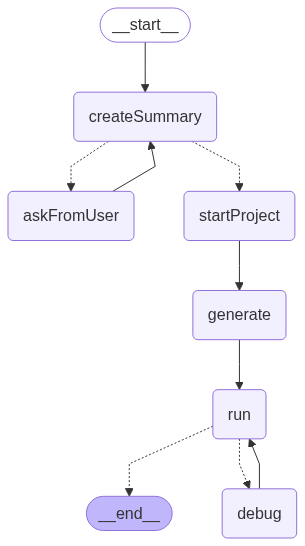
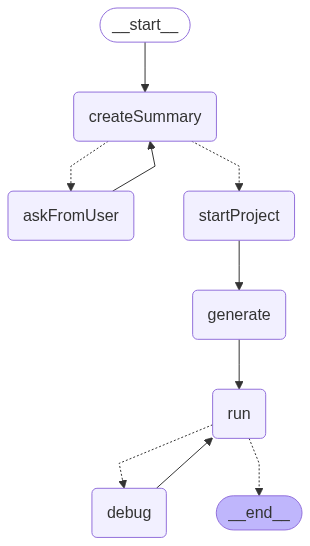
let's go

diff --git a/main.py b/main.py
@@ -137,9 +137,20 @@ def run(state: OverallState) -> Command[Literal["debug"]]:
 
     # read files and copy into code
     file_agent = FileAgent(project_id=project_id, bot_username=telegram_bot_username)
-    code = {}
+    code = ""
     for filename in file_agent.get_project_structure():
-        code[filename] = file_agent.read_file(filename)
+        code += f"{filename}: {file_agent.read_file(filename)} \n\n"
+
+    print(f"initial code {code}")
+    i = 0
+    iterations = len(code) + code.count("{") + code.count("}")
+    while i < iterations:
+        if "{" == code[i]: 
+            code = code[:i+1] + "{" + code[i+1:]; i += 1
+        elif "}" == code[i]:
+            code = code[:i+1] + "}" + code[i+1:]; i += 1
+        i += 1
+    print(f"edited code {code}")
 
     # Install deps
     print("Creating virtual environment")
@@ -175,8 +186,10 @@ def run(state: OverallState) -> Command[Literal["debug"]]:
             "suggestion_summary": result.get("suggestion_summary"),
             "is_docker_created": True,
         },
-        goto="debug" if result.get("has_errors") else END,
-    )
+        goto="debug"
+    ) if result.get("has_errors") else Command(update={
+            "suggestion_summary": result.get("suggestion_summary"),
+            "is_docker_created": True,})
 
 
 
@@ -188,12 +201,21 @@ def debug(state: OverallState):
     suggestion_summary = state.suggestion_summary
     user_suggestion = state.user_suggestion
 
-    # read files and copy into code dictionary
+    # read files and copy into code
     file_agent = FileAgent(project_id=project_id, bot_username=telegram_bot_username)
-    code = {}
+    code = ""
     for filename in file_agent.get_project_structure():
-        code[filename] = file_agent.read_file(filename)
-
+        code += f"{filename}: {file_agent.read_file(filename)} \n\n"
+    print(f"initial code {code}")
+    i = 0
+    iterations = len(code) + code.count("{") + code.count("}")
+    while i < iterations:
+        if "{" == code[i]: 
+            code = code[:i+1] + "{" + code[i+1:]; i += 1
+        elif "}" == code[i]:
+            code = code[:i+1] + "}" + code[i+1:]; i += 1
+        i += 1
+    print(f"edited code {code}")
     user_suggestion = input("Please provide your suggestion: ")
 
     prompt = ChatPromptTemplate(
@@ -213,12 +235,10 @@ def debug(state: OverallState):
 
     return Command(
         update={
-            "questions": result.get("questions"),
-            "summary": result.get("summary"),
-            "TZ": result.get("TZ"),
+            "user_suggestion": user_suggestion,
+            "suggestion_summary": suggestion_summary,
             "is_docker_created": True,
-        },
-        goto="run",
+        }
     )
 
 

diff --git a/prompts.py b/prompts.py
@@ -97,7 +97,7 @@ You are an expert *Telegram Bot Debugging Assistant* specializing in analyzing l
 Each time you are invoked, you receive the following input:
 
 - `logs`: Raw textual logs from a Docker container running a Telegram bot. These logs may contain startup messages, warnings, errors, stack traces, or general runtime output.
-- `code`: A JSON object containing the current state of the bot's codebase, including all relevant files and their contents.
+- `code`: A string containing the current state of the bot's codebase, including all relevant files and their contents.
 
 Your tasks:
 
@@ -156,7 +156,7 @@ You are an expert *Python Telegram Bot Developer* specialized in building and ma
 Each time you are invoked, you receive the following input:
 - `suggestion_summary`: A summary of the issues found in the bot's code or logs, which may include errors, warnings, or suggestions for improvements.
 - `user_suggestion`: A suggestion from the user on how to fix the issue, or new feature ideas.
-- `code`: A JSON object containing the current state of the bot's codebase, including all relevant files and their contents.
+- `code`: A string containing the current state of the bot's codebase, including all relevant files and their contents.
 - `logs`: A file containing the logs from the bot's Docker container, which may include errors or runtime issues.
 Your tasks:
 1. **Understand the request** – Interpret the user’s intent from the suggestion_summary. This may be:

diff --git a/lol.py b/lol.py
@@ -1,0 +1,11 @@
+code = input()
+
+i = 0
+iterations = len(code) + code.count("{") + code.count("}")
+while i < iterations:
+    if "{" == code[i]: 
+        code = code[:i+1] + "{" + code[i+1:]; i += 1
+    elif "}" == code[i]:
+        code = code[:i+1] + "}" + code[i+1:]; i += 1
+    i += 1
+print("Codebase:", code)
